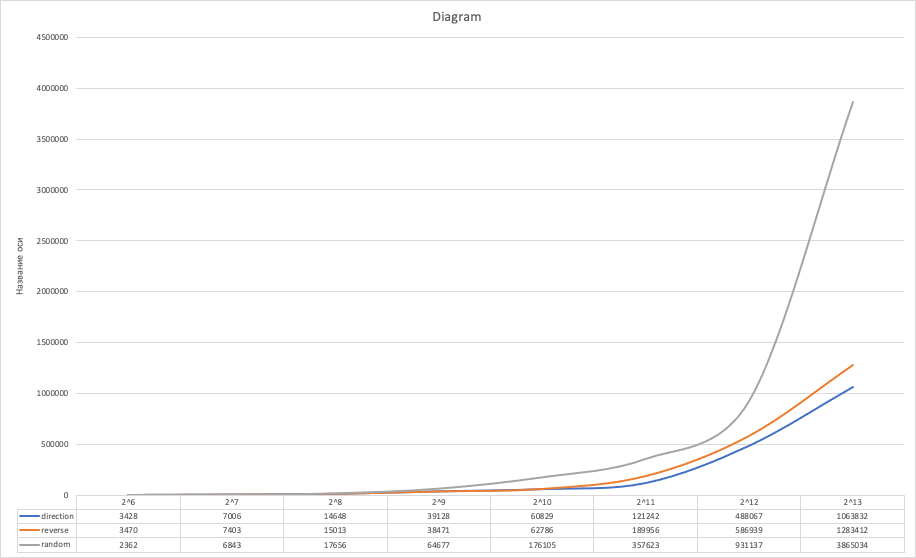
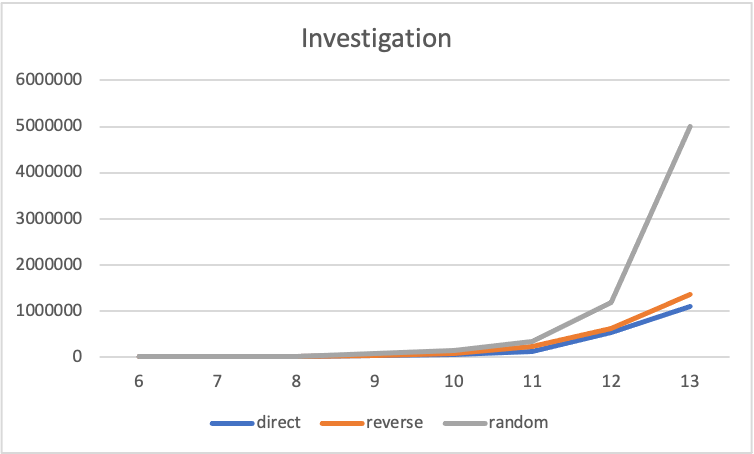
Update random.cpp and investigation and diagram

diff --git a/sources/random.cpp b/sources/random.cpp
@@ -4,14 +4,14 @@
 #include <set>
 
 // void - так как храним только указатели
-void const** random(size_t const length) {
+void const** random(size_t length) {
   void const** arr = new void const*[length];
   std::set<size_t> used_rand{0u};
   size_t random;
   srand(length - 1);  // границы рандома
   void const** current = arr;
-  static unsigned int seed = 0;
-  for (size_t i = 0; i < length - 1; i = i + 16) {
+  static auto seed = static_cast<unsigned int>(time(nullptr));;
+  for (size_t i = 0; i < length - 16; i+=16) {
     random = rand_r(&seed) % length;
     while (used_rand.count(random) != 0)  // проверка на наличие
       random = (random + 1) % length;
@@ -20,6 +20,6 @@ void const** random(size_t const length) {
     current = static_cast<void const**>(arr + random);  // переход к элементу
   }
 
-  current = nullptr;
+  *current = nullptr;
   return arr;
 }

diff --git a/sources/direct.cpp b/sources/direct.cpp
@@ -4,7 +4,7 @@
 #include <set>
 
 // void - так как храним только указатели
-void const** direct(size_t const length) {
+void const** direct(size_t length) {
   void const** arr = new void const*[length];
   for (size_t i = 0; i < length - 16; i += 16) {
     arr[i] = &arr[i + 16];  // ссылка на последующий

diff --git a/sources/reverse.cpp b/sources/reverse.cpp
@@ -4,7 +4,7 @@
 #include <set>
 
 // void - так как храним только указатели
-void const** reverse(size_t const length) {
+void const** reverse(size_t length) {
   void const** arr = new void const*[length];
   arr[0] = &arr[length - 16];
   for (size_t i = 32; i < length; i += 16) {

diff --git a/Investigation/Investigation.md b/Investigation/Investigation.md
@@ -1,6 +1,7 @@
 # Investigation
 
-#### Diagram: ![Diagram](./Diagram.png)
+#### Diagram: 
+![Diagram](./Diagram.png)
 
 - **Travel_variant:** direction
 
@@ -14,7 +15,7 @@
 
   - results:
 
-    		duration: 3428 ns
+    		duration: 3036 ns
 
     
   <u>Experiment:</u>
@@ -27,7 +28,7 @@
 
   - results:
 
-    		duration: 7006 ns
+    		duration: 7685 ns
 
     
 
@@ -41,7 +42,7 @@
 
   - results:
 
-    		duration: 14648 ns
+    		duration: 16122 ns
 
     
 
@@ -55,7 +56,7 @@
 
   - results:
 
-    		duration: 39128 ns
+    		duration: 33564 ns
 
     
 
@@ -69,7 +70,7 @@
 
   - results:
 
-    		duration: 60829 ns
+    		duration: 63284 ns
 
     
 
@@ -83,7 +84,7 @@
 
   - results:
 
-    		duration: 121242 ns
+    		duration: 125413 ns
 
     
 
@@ -97,7 +98,7 @@
 
   - results:
 
-    		duration: 488067 ns
+    		duration: 527986 ns
 
     
 
@@ -111,7 +112,7 @@
 
   - results:
 
-    		duration: 1063832 ns
+    		duration: 1093626 ns
 
 - **Travel_variant:** reverse
 
@@ -125,7 +126,7 @@
 
   - results:
 
-    		duration: 3470 ns
+    		duration: 3582 ns
 
     
 
@@ -139,7 +140,7 @@
 
   - results:
 
-    		duration: 7403 ns
+    		duration: 8217 ns
 
     
 
@@ -153,7 +154,7 @@
 
   - results:
 
-    		duration: 7403 ns
+    		duration: 18653 ns
 
     
 
@@ -167,7 +168,7 @@
 
   - results:
 
-    		duration: 38471 ns
+    		duration: 39599 ns
 
     
 
@@ -181,7 +182,7 @@
 
   - results:
 
-    		duration: 62786 ns
+    		duration: 69639 ns
 
     
 
@@ -195,7 +196,7 @@
 
   - results:
 
-    		duration: 189956 ns
+    		duration: 224118 ns
 
     
 
@@ -209,7 +210,7 @@
 
   - results:
 
-    		duration: 586939 ns
+    		duration: 611007 ns
 
     
 
@@ -223,7 +224,7 @@
 
   - results:
 
-    		duration: 1283412 ns
+    		duration: 1358738 ns
 
 - **Travel_variant:** random
 
@@ -237,7 +238,7 @@
 
   - results:
 
-    		duration: 2362 ns
+    		duration: 3133 ns
 
     
 
@@ -251,7 +252,7 @@
 
   - results:
 
-    		duration: 6843 ns
+    		duration: 7724 ns
 
     
 
@@ -265,7 +266,7 @@
 
   - results:
 
-    		duration: 17656 ns
+    		duration: 23051 ns
 
     
 
@@ -279,7 +280,7 @@
 
   - results:
 
-    		duration: 64677 ns
+    		duration: 76015 ns
 
     
 
@@ -293,7 +294,7 @@
 
   - results:
 
-    		duration: 176105 ns
+    		duration: 133452 ns
 
     
 
@@ -307,7 +308,7 @@
 
   - results:
 
-    		duration: 357623 ns
+    		duration: 348146ns
 
     
 
@@ -321,7 +322,7 @@
 
   - results:
 
-    		duration: 931137 ns
+    		duration: 1189555 ns
 
     
 
@@ -335,7 +336,7 @@
 
   - results:
 
-    		duration: 3865034 ns
+    		duration: 4993859 ns
 
     
 
